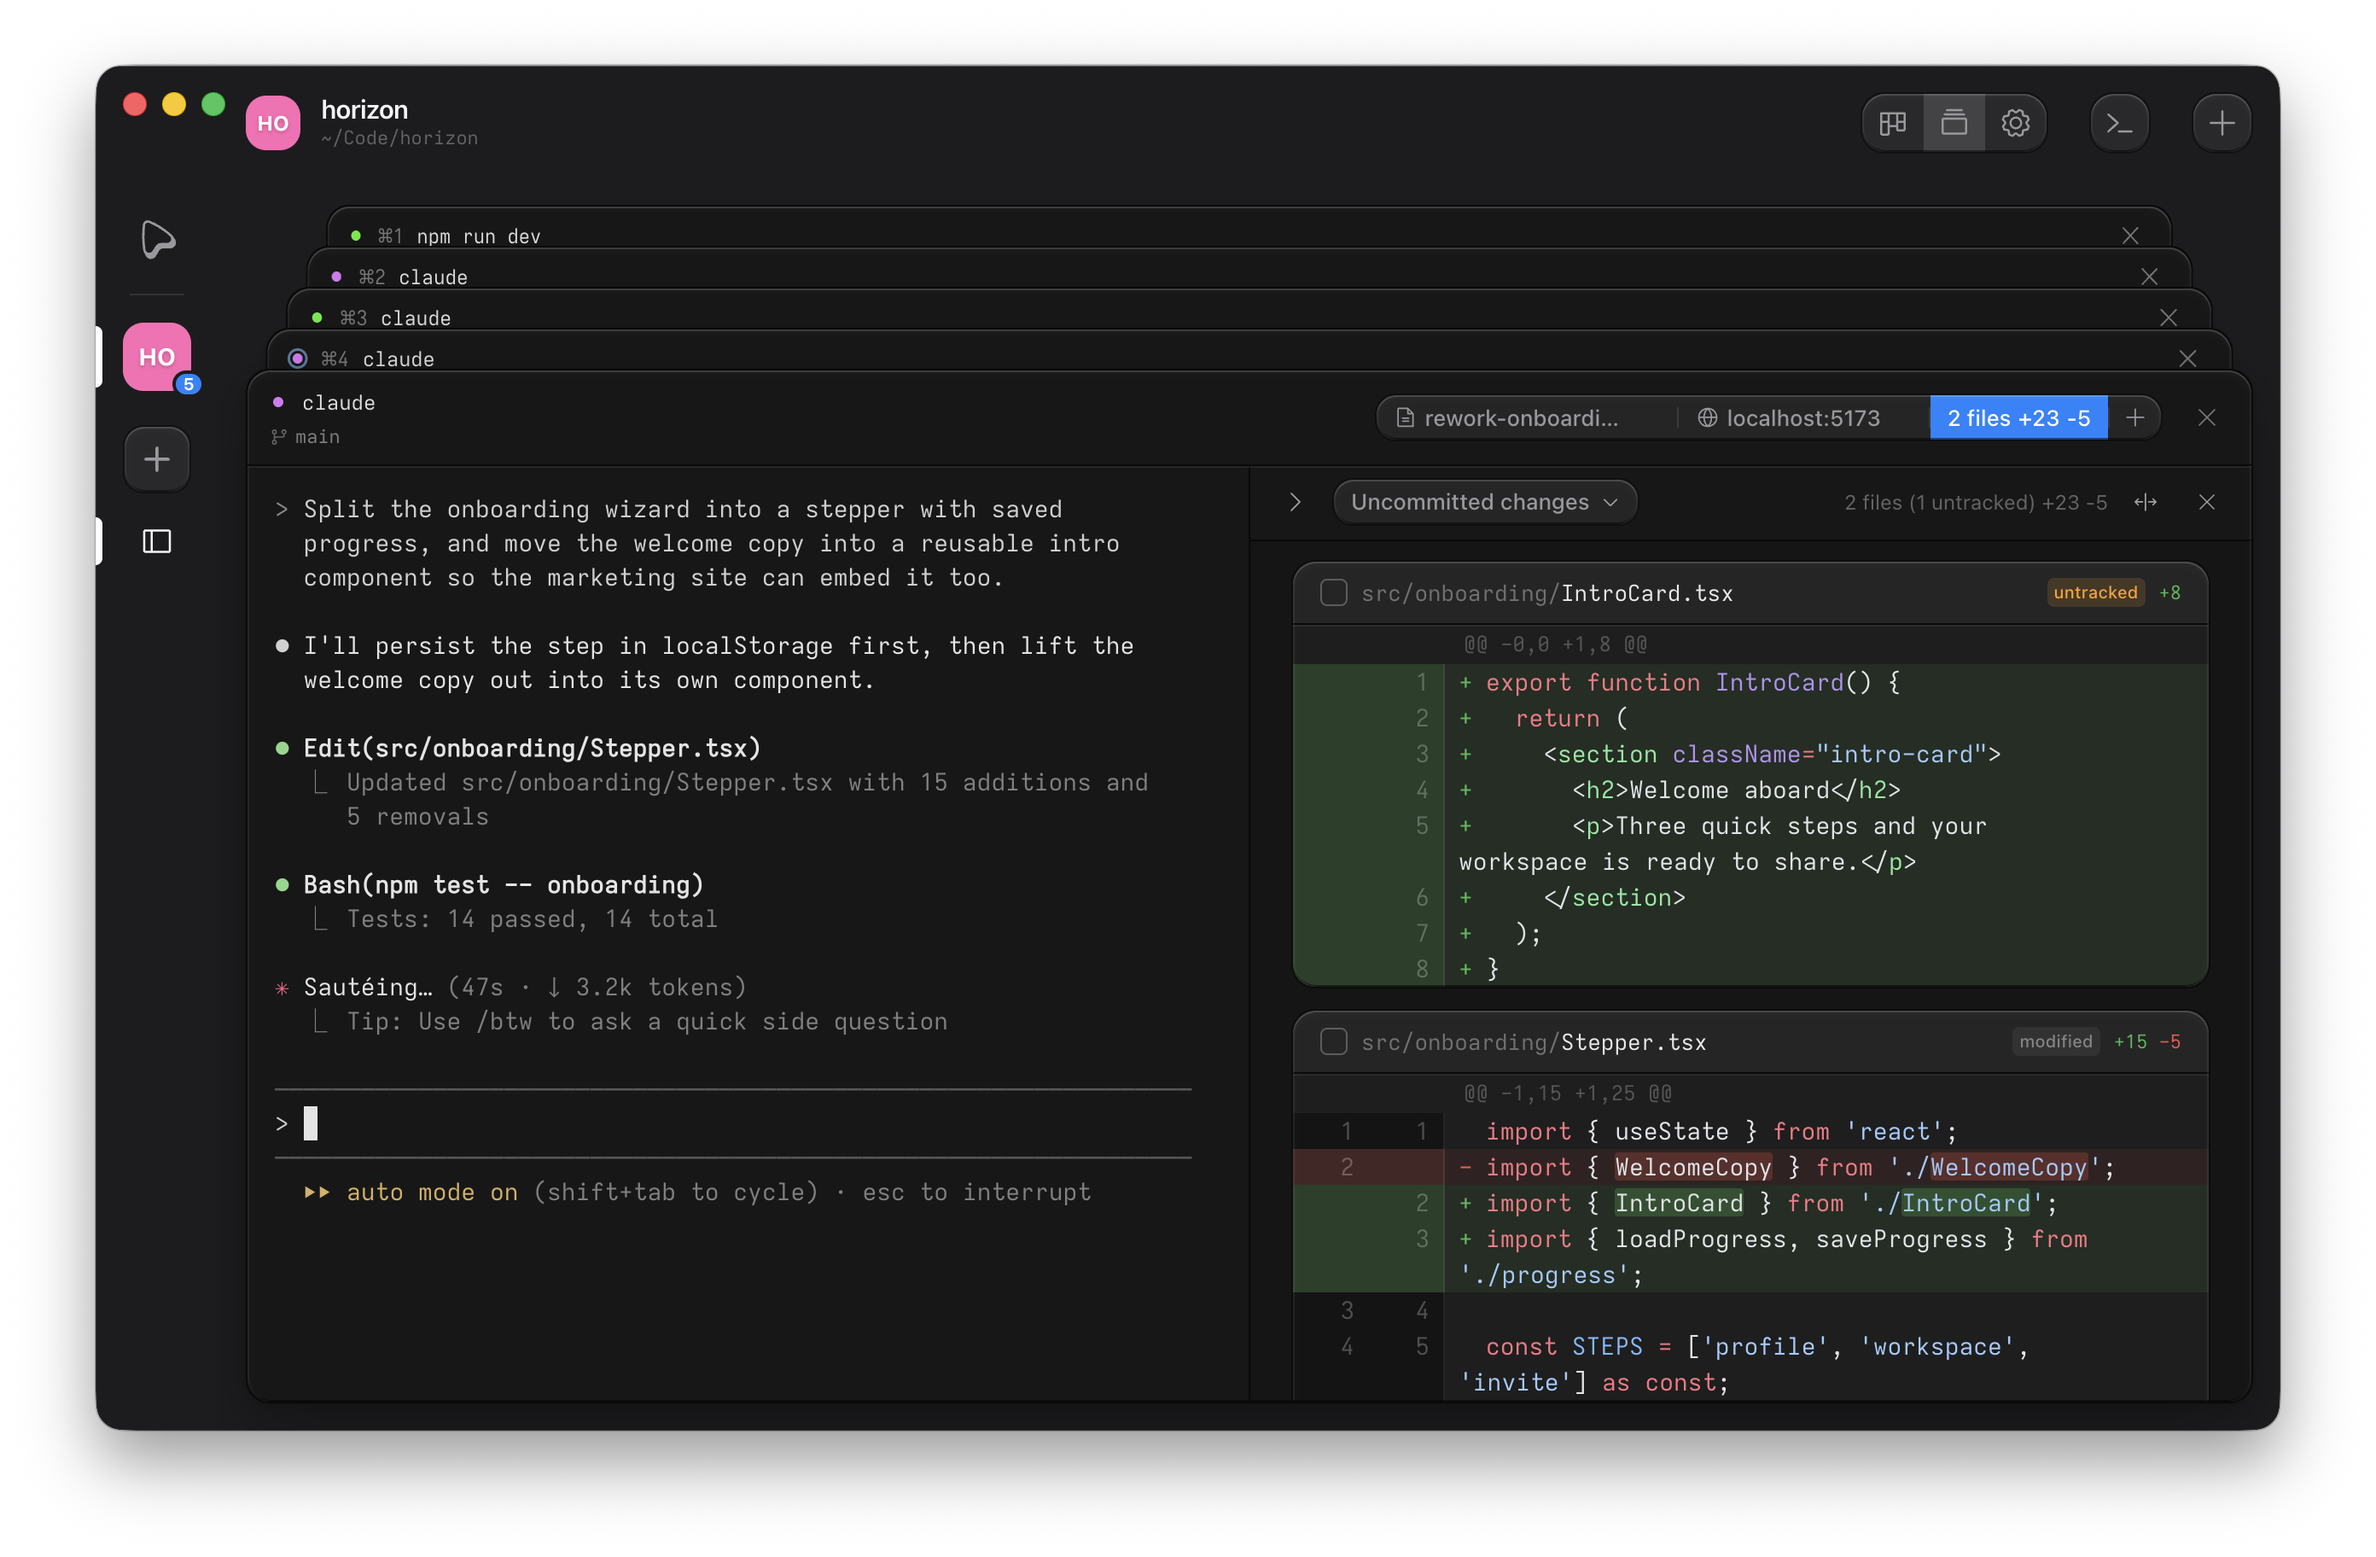
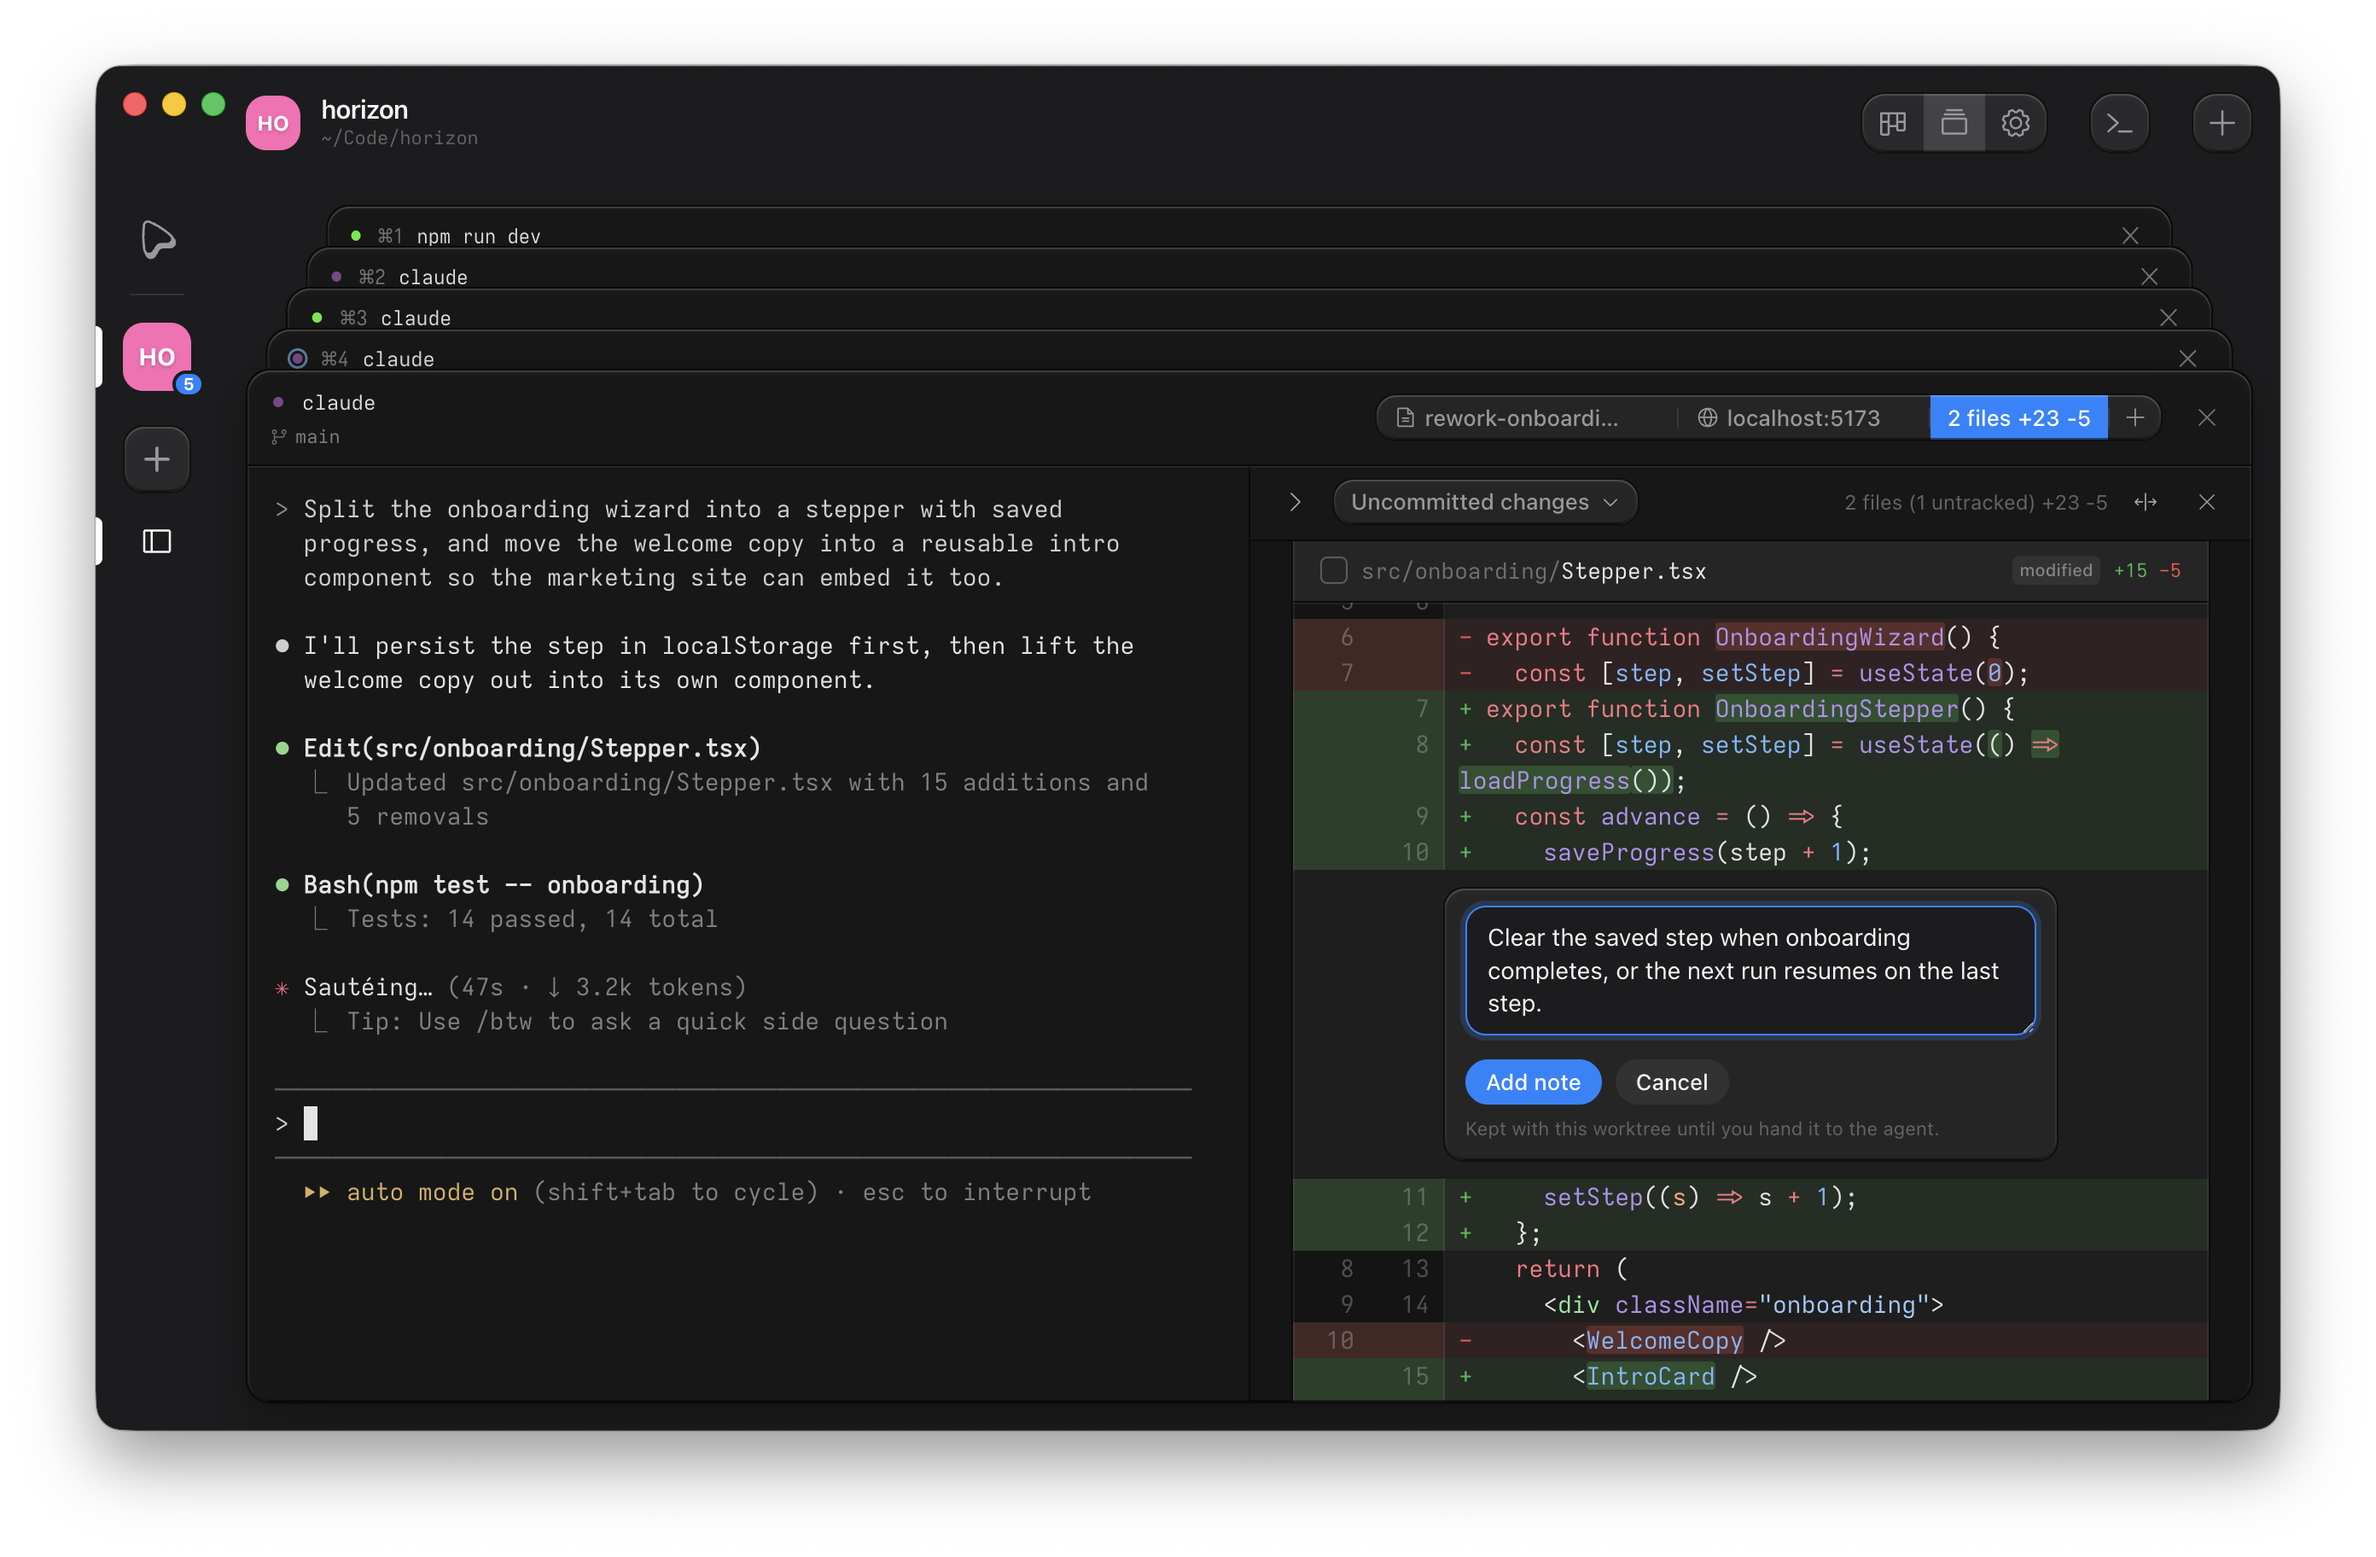
Show a note being written in the diff screenshot

Changed region(s): [[0.5312, 0.3438, 0.9062, 0.9062]]

diff --git a/src/capture/navigator.ts b/src/capture/navigator.ts
@@ -65,18 +65,72 @@ function focusTerminal(projectPath: string, ptyId: string): void {
   if (index >= 0) useTerminalStore.getState().setActiveIndex(projectPath, index);
 }
 
-/** Click a control that only exists after async state settles, polling for it. */
-async function clickWhenPresent(selector: string, timeoutMs = 5000): Promise<void> {
+/** Poll for DOM that only exists after async state settles. */
+async function waitFor<T>(get: () => T | null | undefined, timeoutMs = 5000): Promise<T | null> {
   const start = Date.now();
   while (Date.now() - start < timeoutMs) {
-    const button = document.querySelector<HTMLButtonElement>(selector);
-    if (button) {
-      button.click();
-      return;
-    }
+    const value = get();
+    if (value) return value;
     await new Promise((r) => setTimeout(r, 150));
   }
-  captureLog.warn('control never appeared', { selector });
+  return null;
+}
+
+async function clickWhenPresent(selector: string, timeoutMs = 5000): Promise<void> {
+  const button = await waitFor(() => document.querySelector<HTMLButtonElement>(selector), timeoutMs);
+  if (button) button.click();
+  else captureLog.warn('control never appeared', { selector });
+}
+
+/**
+ * Open the diff panel's note composer on the line whose content contains
+ * `lineText`, and type `body` into it.
+ *
+ * Drives the same hover → press → release path a reader takes: the plus
+ * button is only built for the hovered line, and the composer only opens on
+ * the window mouseup that ends the press. Dispatching those events is the
+ * only way in — the composing state is internal to the panel.
+ */
+async function openDiffNoteComposer(note: { path: string; lineText: string; body: string }): Promise<void> {
+  const row = await waitFor(() => {
+    const section = document.querySelector(`[data-path="${note.path}"]`);
+    if (!section) return null;
+    const rows = [...section.querySelectorAll<HTMLElement>('div.leading-normal')];
+    return rows.find((r) => r.textContent?.includes(note.lineText));
+  });
+  if (!row) {
+    captureLog.warn('diff line never appeared', { path: note.path, lineText: note.lineText });
+    return;
+  }
+
+  row.dispatchEvent(new MouseEvent('mouseover', { bubbles: true }));
+  const button = await waitFor(() => row.querySelector<HTMLButtonElement>('button'));
+  if (!button) {
+    captureLog.warn('comment button never appeared', { path: note.path });
+    return;
+  }
+
+  // The mouseup listener is registered by an effect after the press renders,
+  // so release a beat later — and retry in case a release still fell between.
+  let textarea: HTMLTextAreaElement | null = null;
+  for (let attempt = 0; attempt < 3 && !textarea; attempt++) {
+    button.dispatchEvent(new MouseEvent('mousedown', { bubbles: true, cancelable: true }));
+    await new Promise((r) => requestAnimationFrame(r));
+    window.dispatchEvent(new MouseEvent('mouseup', { bubbles: true }));
+    textarea = await waitFor(() => document.querySelector<HTMLTextAreaElement>('.diff-list textarea'), 1500);
+  }
+  if (!textarea) {
+    captureLog.warn('note composer never opened', { path: note.path });
+    return;
+  }
+
+  // React tracks the value through its own setter, so write through the
+  // prototype's and fire input for the change to register.
+  Object.getOwnPropertyDescriptor(HTMLTextAreaElement.prototype, 'value')?.set?.call(textarea, note.body);
+  textarea.dispatchEvent(new Event('input', { bubbles: true }));
+  textarea.scrollIntoView({ block: 'center' });
+  // Leave the line so the hover-only plus button is not in the shot.
+  row.dispatchEvent(new MouseEvent('mouseout', { bubbles: true, relatedTarget: document.body }));
 }
 
 async function waitForProject(projectPath: string, timeoutMs = 10_000): Promise<boolean> {
@@ -195,6 +249,7 @@ export function installCaptureNavigator(): void {
           focusTerminal(payload.projectPath, target);
           term.setDiffPanelOpen(true);
           await clickWhenPresent('button[aria-label="Hide the file list"]');
+          if (payload.diffNote) await openDiffNoteComposer(payload.diffNote);
         }
         break;
       }

diff --git a/src/capture/types.ts b/src/capture/types.ts
@@ -38,6 +38,9 @@ export interface CaptureNavigatePayload {
   canvasViewport?: { x: number; y: number; zoom: number };
   /** Terminal whose diff takeover opens — only consumed by the diff scene */
   diffPtyId?: string;
+  /** Note composer opened on the diff line containing `lineText`, pre-filled
+   *  with `body` — only consumed by the diff scene */
+  diffNote?: { path: string; lineText: string; body: string };
   /** URL and terminal for the web preview panel — only consumed by the preview scene */
   previewUrl?: string;
   previewPtyId?: string;

diff --git a/README.md b/README.md
@@ -46,7 +46,7 @@ Ouijit shadows the agent binaries on PATH to inject lifecycle hooks and a refere
 
 Every task terminal includes a diff of its worktree against its merge target, uncommitted changes, or any base you pick, with word-level highlighting. Leave a note on a diff line and it goes to the agent working in that worktree, re-anchoring as the code moves. An experimental GitHub surface adds a pull request inbox, review comments staged locally until you send them, and merging. It drives the `gh` CLI, so `gh auth login` is the only setup.
 
-<img src="website/public/assets/screenshots/diff.png" alt="Worktree diff beside the agent terminal" width="100%">
+<img src="website/public/assets/screenshots/diff.png" alt="Worktree diff beside the agent terminal, with a note being written on a changed line" width="100%">
 
 ## Sandboxing
 
